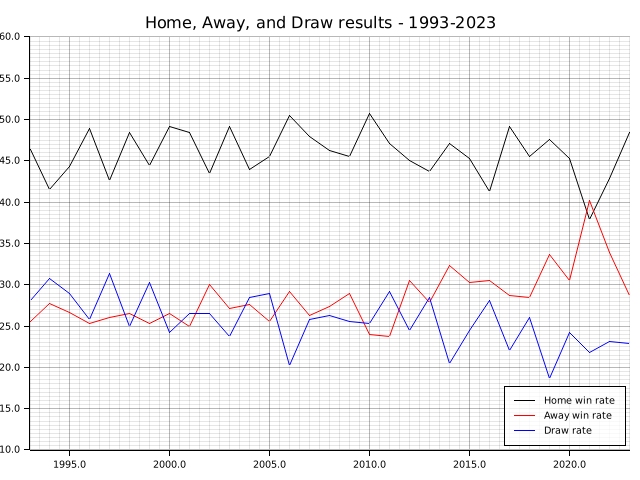
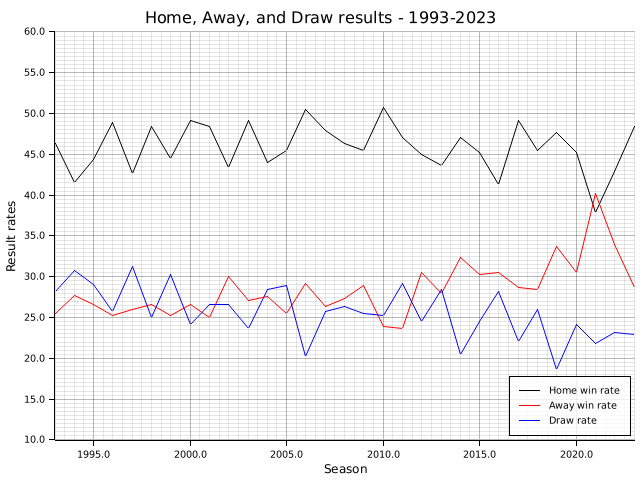
writeup added

diff --git a/src/main.rs b/src/main.rs
@@ -250,12 +250,16 @@ fn main() {
     let drawing_area = BitMapBackend::new("all_time_rates.png", (640, 480)).into_drawing_area();
     drawing_area.fill(&WHITE).unwrap();
     let mut chart_builder = ChartBuilder::on(&drawing_area)
-        .set_label_area_size(LabelAreaPosition::Left, 40)
-        .set_label_area_size(LabelAreaPosition::Bottom, 40)
+        .x_label_area_size(35)
+        .y_label_area_size(50)
         .caption("Home, Away, and Draw results - 1993-2023", ("sans-serif", 20).into_font())
-        .margin(10).set_left_and_bottom_label_area_size(20)
+        .margin(5)
         .build_cartesian_2d(1993.0..2023.0, 10.0..60.0).unwrap();
-    chart_builder.configure_mesh().draw().unwrap();
+    chart_builder.configure_mesh()
+        .y_desc("Result rates")
+        .x_desc("Season")
+        .axis_desc_style(("sans-serif", 15))
+        .draw().unwrap();
     chart_builder.draw_series(LineSeries::new(x_values.map(|x | (x, home_pct(&games, x as usize))), BLACK)).unwrap() // for each season, compute the home win rate
         .label("Home win rate")
         .legend(|(x, y)| PathElement::new(vec![(x, y), (x + 20, y)], &BLACK)); // add legend
@@ -297,15 +301,19 @@ fn main() {
     let drawing_area = BitMapBackend::new("goal_averages.png", (640, 480)).into_drawing_area(); // plot average goal trends year over year
     drawing_area.fill(&WHITE).unwrap();
     let mut chart_builder = ChartBuilder::on(&drawing_area)
-        .set_label_area_size(LabelAreaPosition::Left, 40)
-        .set_label_area_size(LabelAreaPosition::Bottom, 40)
+        .x_label_area_size(35)
+        .y_label_area_size(50)
         .caption("Total goals per season - 1993-2023", ("sans-serif", 20).into_font())
-        .margin(10).set_left_and_bottom_label_area_size(20)
+        .margin(5)
         .build_cartesian_2d(1993.0..2023.0, 2.0..3.0).unwrap();
-    chart_builder.configure_mesh().draw().unwrap();
-    chart_builder.draw_series(LineSeries::new(x_values.map(|x | (x, goal_avg(&games, x as usize))), BLACK)).unwrap()
+    chart_builder.configure_mesh()
+        .y_desc("Average goals per game")
+        .x_desc("Season")
+        .axis_desc_style(("sans-serif", 15))
+        .draw().unwrap();
+    chart_builder.draw_series(LineSeries::new(x_values.map(|x | (x, goal_avg(&games, x as usize))), MAGENTA)).unwrap()
         .label("Average goals per game")
-        .legend(|(x, y)| PathElement::new(vec![(x, y), (x + 20, y)], &BLACK));
+        .legend(|(x, y)| PathElement::new(vec![(x, y), (x + 20, y)], &MAGENTA));
     chart_builder.configure_series_labels()
         .position(SeriesLabelPosition::LowerRight)
         .border_style(&BLACK)

diff --git a/src/wins.rs b/src/wins.rs
@@ -1,5 +1,7 @@
 use crate::Game;
 
+// a module containing functions that are used to compute result rates in a given season.
+
 pub fn home_pct(games: &Vec<Game>, season: usize) -> f64 {
     // calculates the percentage of games in a season where the home team won.
     let mut home_win = 0;

diff --git a/README.md b/README.md
@@ -1,22 +1,9 @@
+# Project Overview
 
-# Premier League Match Analysis
+See "210 Final Project Writeup" PDF for full writeup, including outputs and code explanations.
+
+This program can be run with cargo run. The graphs created by Plotters will output to two PNGs: 'all-time-rates' and 'goal-averages,' which are already attached here in Github. They will automatically update if the code is changed and run.
 
 I changed my project idea from my initial proposal because I found that my initial dataset and approach was too computationally costly: I originally had a dataset of 498k rows that computed connections between hockey players across different leagues based on who else they had played with who acted as a bridge between two players, using breadth-first-search to find degrees of separation. However, it ended up being too large and paring it down made some connections impossible. I also struggled to handle duplicate player names and diacritics/accents in my String encoding, so I ended up going back to the dataset from my original search: a record of every Premier League match from 1992-93, when the league was started, to the 2022-23 season.
 
-My initial goal for this project was to use preliminary data analysis to find out if COVID seasons in the Premier League had any effect on home advantage. The effect of home crowd support on match results in the Premier League is well-documented –  and considering that during the COVID seasons (part of 2019-20 and the entirety of 2020-21) matches took place behind closed doors, I was curious to see if that affected the home vs away win-rates of teams in the PL. I planned to use the plotters crate to visualize my data as well, but for some reason I wasn’t able to install the crate, so I did my best without it.
-
-I split my code into a main and a mod file (game.rs) which contained all the information to process the csv, create Game and DataFrame structs, and print information about individual games. I started with a read_csv method that took in an empty DataFrame struct to store all the data from the csv (the headers and individual Game structs as a Vector of Games). Indexing by the column number, I created individual vectors for each column and pushed the value from that column-row pairing to the vector, so I could collect each vector into my Game struct. I then pushed each Game struct into the games field of my DataFrame, and returned a Result enum containing a vector of Games matching the one that belonged to my self.games field.
-
-Since I wanted to do a lot of team and season-specific computations, I refactored a lot of my code to create functions that took in each team/season and then used those in my general functions when I wanted to compute an average across teams or seasons. I passed the same vector of Games into all of my functions, and then used nested loops to check if that game was in the correct season and involved the named team. I started by computing the most successful teams using two measures: overall win percentage and number of seasons in the Premier League, which uses a relegation system where the least winning teams in each season are relegated to the next-highest league in the English football system.
-
-For both my top_percent() and top_appearances() functions, I made helper functions that computed the overall win percentage for a given team in a given range of seasons, and the number of seasons the team appeared in that range. In my team_seasons() function, I initially used a HashSet to keep track of the seasons without repeats, but because HashSets are ordered by the hash function buckets and not necessarily the value of each element, I ended up changing this to a vector of seasons, and just used .contains to check if that season was already in the given vector. To find the top ten most successful teams by both metrics, I looped through every team in the 1993-2023 season range and sorted my vectors by the relevant values. 
-
-I created functions to calculate a season’s overall home, away, and draw result percentages, and made a test to ensure that they added up to 100. This was used to find the season with the lowest home win rate and how much of an outlier it was compared to the average home win rate (see output). I found that, consistent with my hypothesis, the 2020-21 season had the lowest home win rate – the only season where the home win rate was lower than the away win rate. This was the only season when games were played entirely without spectators (only a few weeks of the 2019-20 season had no spectators, and in 2021-22, the league welcomed back full stadiums of fans). Remarkably, the home win rate in 2021 was about 8% lower than the overall average, and almost 3.5% lower than the second-lowest season (2016). So while more rigorous statistical analysis would be needed to control for other variables, this shows some speculative association between COVID season protocols and league-wide home advantage. 
-
-I also calculated the average goals scored per game in each season and found that 2023 had the highest GPG average, which makes sense in context with sports journalists analyzing the increase in offensive tactics over the past few years, while defensive and goalkeeping techniques have not kept pace. For fun, I also looked at a given team’s highest game-winning interval across a given season range.
-
-In my main function, I printed most of my information about the top n (10) most successful teams, using the functions I mentioned above. I also described the home win-rate change I had noticed during the COVID season relative to that season’s draw and away-win rates. Lastly, I created a user input function that took in a team and a range of seasons, then provided some information about: a) what seasons in that range the team had played in, if any; b) the team’s biggest win interval over that range, and information about the game where it took place, using my game print() method; and c) their win rate in that range. At various points in the user input function, I used the Result enum to handle possible errors, such as the season range not falling within the given seasons, the user input team not matching the team names, and the team not playing in the Premier League during that range.
-
-I created two main tests for my program. The first tested the functionality of my home_pct, away_pct, and draw_pct functions. In theory, since these were calculating the proportion of games in a given season that ended in a home win, away win, and draw respectively (which I then multiplied by 100 to get a percentage), they should add up to 100. To accomplish this in my test, I inputted a random season (2023) and added the percentages from each function to a total_rate variable, which I then used the assert_eq! macro to compare to 100.0, and this test passed.
-
-I also tested whether my team_seasons function worked: given a team and a season range, I wanted it to return a tuple containing a Vec<usize> of all the seasons in that range where the team had appeared, and a usize that counted those seasons. I knew that several teams had appeared in all 31 of the Premier League’s seasons from 1992-93 to 2022-23, including Manchester United, so I passed their team name into this function to ensure that it matched the overall number of seasons.
+My initial goal for this project was to use preliminary data analysis to find out if COVID seasons in the Premier League had any effect on home advantage. The effect of home crowd support on match results in the Premier League is well-documented –  and considering that during the COVID seasons (part of 2019-20 and the entirety of 2020-21) matches took place behind closed doors, I was curious to see if that affected the home vs away win-rates of teams in the PL. I used the plotters crate to visualize several aspects of my data.
